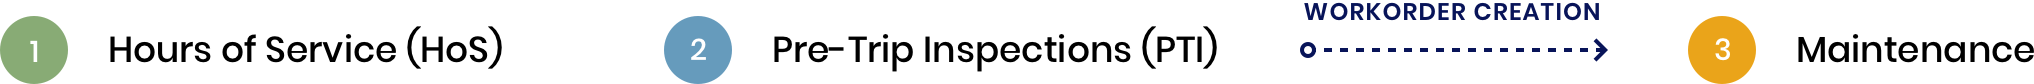
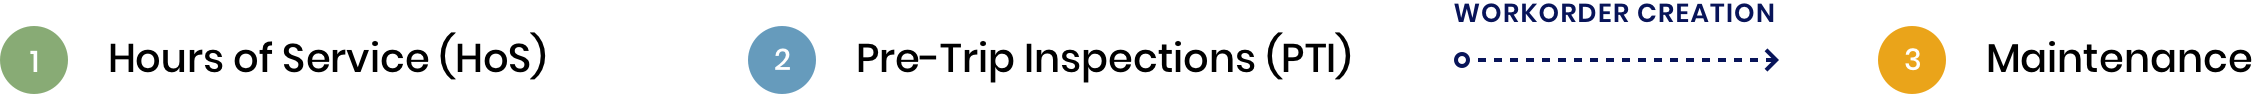
new

diff --git a/CSS/style.css b/CSS/style.css
@@ -253,7 +253,7 @@ body {
   transition: 0.5s;
 }
 .firstmodule img {
-  width: 938px;
+  width: 1127px;
 }
 .secondmodule img {
   width: 251px;
